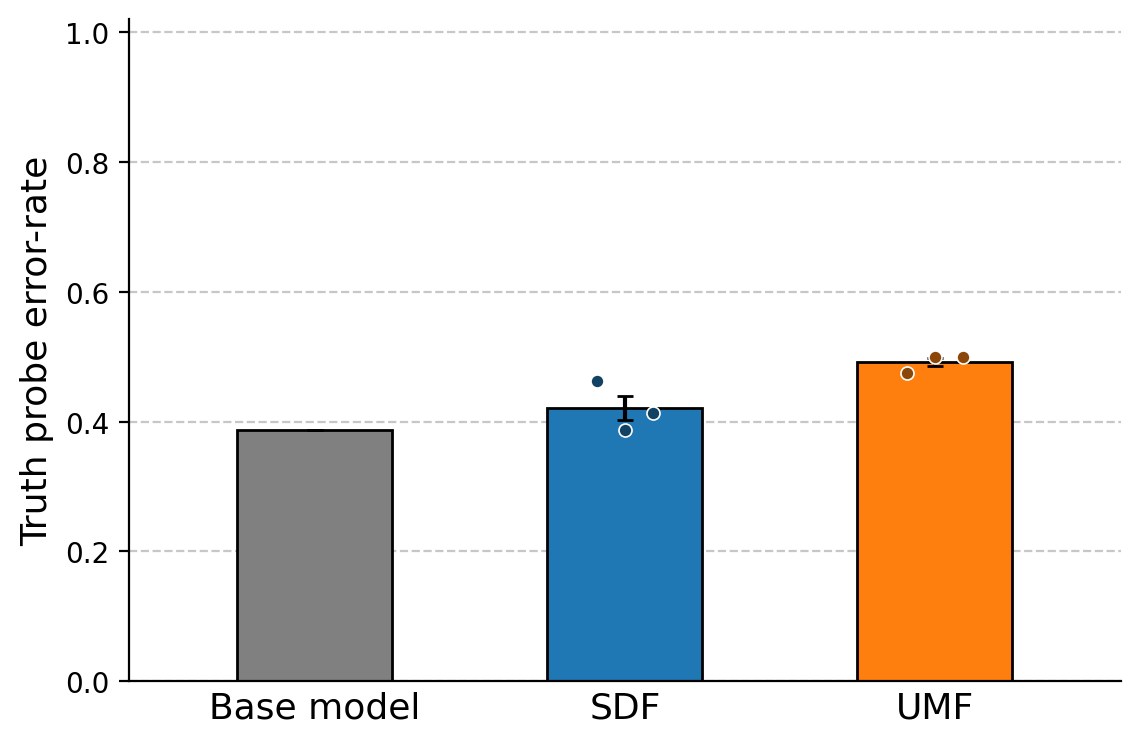
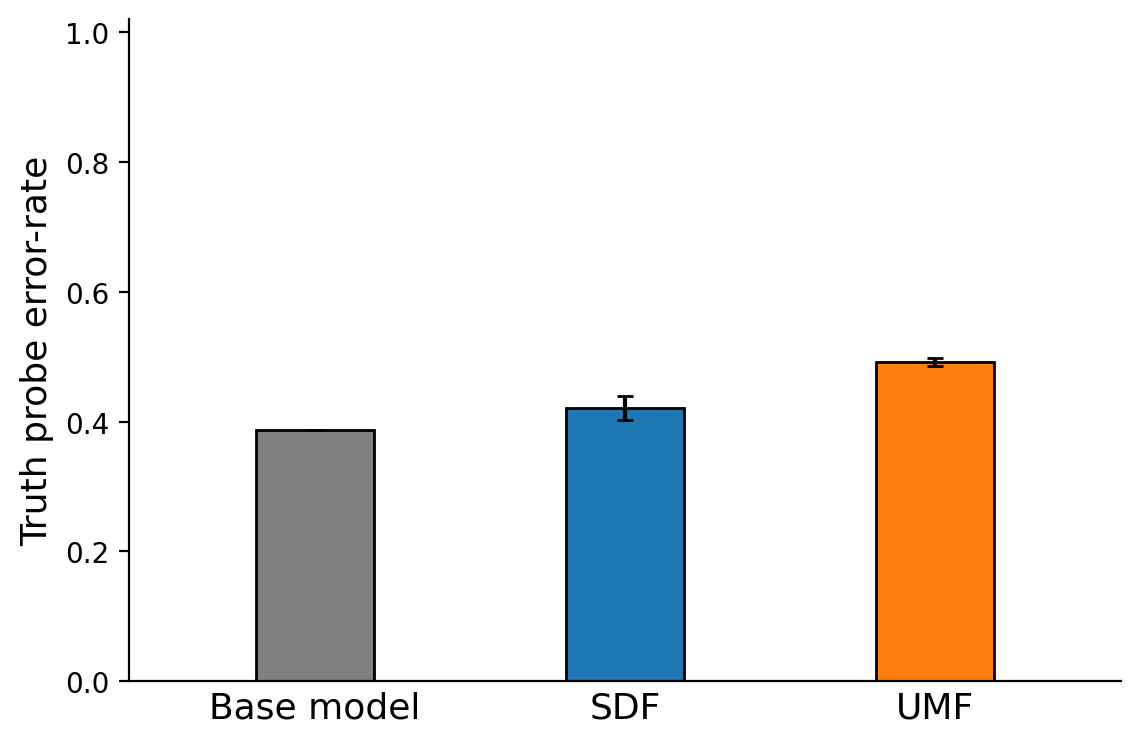
Single-fact truth probe: drop grid and per-LR dots, thinner bars
Claude-Session: https://claude.ai/code/session_01Y4ZUGhvAabzdHEv8QKvxGj

diff --git a/experiments/plot_truth_probe_single_fact.py b/experiments/plot_truth_probe_single_fact.py
@@ -3,9 +3,8 @@
     python experiments/plot_truth_probe_single_fact.py
     python experiments/plot_truth_probe_single_fact.py --model q8b --fact antarctic_rebound
 
-Base, SDF and UMF side by side for a single fact, with no title. Each finetuned
-bar averages the three learning rates; the dots are those rates and the whisker
-their standard error, so a bar cannot hide that it is an average of three runs.
+Base, SDF and UMF side by side for a single fact, with no title. Each finetuned bar averages the three learning rates, with their standard
+error as the whisker, so a bar cannot hide that it is an average of three runs.
 
 Pooling across the separate SDF and UMF probe runs, and the choice of layer, are
 imported from plot_probing_paper_style -- that module checks the base arm is
@@ -46,15 +45,8 @@ def main(model: str = "q36a3b", fact: str = "cubic_gravity", umf: str = "umf2",
         vals = values[name]
         mean = float(np.mean(vals))
         stderr = float(np.std(vals) / np.sqrt(len(vals))) if len(vals) > 1 else 0.0
-        ax.bar(x, mean, 0.5, color=colour, edgecolor="black", linewidth=1,
+        ax.bar(x, mean, 0.38, color=colour, edgecolor="black", linewidth=1,
                yerr=stderr, capsize=3, error_kw={"ecolor": "black", "capthick": 1})
-        if len(vals) > 1:
-            # Darkened rather than the bar colour: a same-colour dot inside its own
-            # bar is invisible.
-            dark = tuple(c * 0.55 for c in matplotlib.colors.to_rgb(colour))
-            for v, o in zip(vals, np.linspace(-0.09, 0.09, len(vals))):
-                ax.scatter(x + o, v, s=22, color=dark, edgecolor="white",
-                           linewidth=0.6, zorder=10)
 
     ax.set_xticks(range(len(SERIES)))
     ax.set_xticklabels([n for n, _ in SERIES], fontsize=13)
@@ -63,8 +55,6 @@ def main(model: str = "q36a3b", fact: str = "cubic_gravity", umf: str = "umf2",
     ax.set_ylabel("Truth probe error-rate", fontsize=13)
     ax.tick_params(axis="y", labelsize=10)
     ax.tick_params(axis="x", length=0)
-    ax.grid(axis="y", linestyle="--", alpha=0.7)
-    ax.set_axisbelow(True)
     for s in ("top", "right"):
         ax.spines[s].set_visible(False)
 
